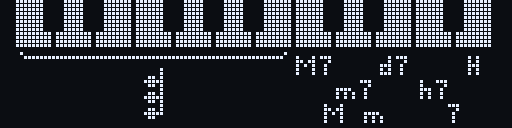
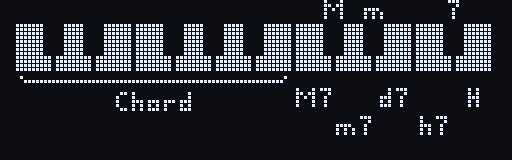
Polish the pedal diagrams
Note names under the white keys in normal mode, Oct +1 / Oct -1 by the
octave buttons, Chord in text and a sliders icon for config mode. Chord
type labels are centred on their keys: over the black ones, and under the
white ones on alternating rows since they are as wide as the keys.

Claude-Session: https://claude.ai/code/session_014PS28BVHbviu2zxhTE1guH

Changed region(s): [[0.0312, 0.0, 0.9688, 0.9688], [0.625, 0.6875, 0.75, 0.9688]]

diff --git a/tools/preview/preview.c b/tools/preview/preview.c
@@ -254,43 +254,63 @@ static void frames_png(const char *path, uint8_t *const *bufs, int n,
 // Pedal diagrams for the docs, drawn like the display
 
 #define KB_X ((128 - WIDGET_KEYS_WIDTH) / 2)
+#define DIAGRAM_KB_H 12
 
-static void tiny_under(gfx_t *g, int key, int y, const char *label) {
-    int x = widget_key_x(KB_X, key) + widget_key_width(key) / 2;
-    widget_tiny_text(g, x - widget_tiny_width(label) / 2, y, label);
+static bool is_white(int key) {
+    return widget_key_width(key) != widget_key_width(1);
+}
+
+// Label centred under a white key (row 0 or 1) or over a black one
+static void key_label(gfx_t *g, int kb_y, int key, const char *label, int row) {
+    int x = widget_key_x(KB_X, key) + (widget_key_width(key) - widget_tiny_width(label)) / 2;
+    int y = is_white(key) ? kb_y + DIAGRAM_KB_H + 4 + row * 7 : kb_y - 6;
+    widget_tiny_text(g, x, y, label, true);
+}
+
+// Sprite with its left edge at x, centred vertically on y
+static void blit_centred(gfx_t *g, const sprite_t *s, int x, int y) {
+    gfx_blit(g, s, x, y - s->height / 2);
 }
 
 static void diagram_normal(gfx_t *g) {
+    static const char *const NOTES[12] = { "C", "D", "E", "F", "G", "A", "B", "C", "D", "E", "F", "G" };
     gfx_clear(g);
-    widget_keyboard(g, KB_X, 0, 12, 0, 0);
+    widget_keyboard(g, KB_X, 0, DIAGRAM_KB_H, 0, 0);
+    for (int key = 0, n = 0; key < 20; key++) {
+        if (is_white(key)) {
+            key_label(g, 0, key, NOTES[n++], 0);
+        }
+    }
     // One button: one octave up or down
-    gfx_blit(g, &SPRITE_BUTTON_UP, 8, 17);
-    widget_tiny_text(g, 22, 20, "+1");
-    gfx_blit(g, &SPRITE_BUTTON_DOWN, 40, 17);
-    widget_tiny_text(g, 54, 20, "-1");
+    blit_centred(g, &SPRITE_BUTTON_UP, 12, 28);
+    widget_tiny_text(g, 26, 26, "Oct +1", true);
+    blit_centred(g, &SPRITE_BUTTON_DOWN, 68, 28);
+    widget_tiny_text(g, 82, 26, "Oct -1", true);
     // Both: chord mode briefly, config mode after a second
-    gfx_blit(g, &SPRITE_BUTTON_UP, 8, 33);
-    gfx_blit(g, &SPRITE_BUTTON_DOWN, 21, 33);
-    gfx_blit(g, &SPRITE_CHORD, 36, 32);
-    gfx_blit(g, &SPRITE_BUTTON_UP, 64, 33);
-    gfx_blit(g, &SPRITE_BUTTON_DOWN, 77, 33);
-    widget_tiny_text(g, 91, 36, "1s");
-    gfx_blit(g, &SPRITE_GEAR, 101, 33);
+    blit_centred(g, &SPRITE_BUTTON_UP, 12, 41);
+    blit_centred(g, &SPRITE_BUTTON_DOWN, 25, 41);
+    widget_tiny_text(g, 40, 39, "Chord", true);
+    blit_centred(g, &SPRITE_BUTTON_UP, 68, 41);
+    blit_centred(g, &SPRITE_BUTTON_DOWN, 81, 41);
+    widget_tiny_text(g, 96, 39, "1s", true);
+    blit_centred(g, &SPRITE_SETTINGS, 106, 41);
 }
 
 static void diagram_chord(gfx_t *g) {
     static const char *const LABELS[8] = { "M7", "M", "m7", "m", "d7", "h7", "7", "H" };
+    int kb_y = 6;
     gfx_clear(g);
-    widget_keyboard(g, KB_X, 0, 12, 0, 0);
-    // Roots: one arc over all of them
-    widget_arc(g, KB_X, 13, 0, 11);
-    int left = widget_key_x(KB_X, 0), right = widget_key_x(KB_X, 11) + widget_key_width(11);
-    gfx_blit(g, &SPRITE_CHORD, (left + right - SPRITE_CHORD.width) / 2, 17);
-    // Chord types and hold, staggered over three rows so neighbours don't touch
-    static const uint8_t ROW[8] = { 14, 26, 20, 26, 14, 20, 26, 14 };
-    for (int key = 12; key < 20; key++) {
-        tiny_under(g, key, ROW[key - 12], LABELS[key - 12]);
+    widget_keyboard(g, KB_X, kb_y, DIAGRAM_KB_H, 0, 0);
+    // Chord types and hold on the upper eight keys; labels under neighbouring
+    // white keys alternate rows, as they are as wide as the keys
+    for (int key = 12, white = 0; key < 20; key++) {
+        key_label(g, kb_y, key, LABELS[key - 12], is_white(key) ? white++ & 1 : 0);
     }
+    // Roots: one arc under all of them
+    int y = kb_y + DIAGRAM_KB_H + 1;
+    widget_arc(g, KB_X, y, 0, 11);
+    int left = widget_key_x(KB_X, 0), right = widget_key_x(KB_X, 11) + widget_key_width(11);
+    widget_tiny_text(g, (left + right - widget_tiny_width("Chord")) / 2, y + 4, "Chord", true);
 }
 
 static void write_diagrams(const char *dir) {
@@ -303,11 +323,12 @@ static void write_diagrams(const char *dir) {
     snprintf(path, sizeof(path), "%s/keys-normal.png", dir);
     frames_png(path, buf, 1, g.width, g.height);
 
-    gfx_init(&g, 128, 32);
+    gfx_init(&g, 128, 40);
     diagram_chord(&g);
     snprintf(path, sizeof(path), "%s/keys-chord.png", dir);
     frames_png(path, buf, 1, g.width, g.height);
 
+    gfx_init(&g, 128, 32);
     ui_state_t st;
     memset(&st, 0, sizeof(st));
     st.root = -1;

diff --git a/src/widgets.c b/src/widgets.c
@@ -103,12 +103,17 @@ static const struct {
     { '3', 3, { 21, 21, 31 } }, { '4', 3, { 7, 4, 31 } },   { '5', 3, { 23, 21, 29 } },
     { '6', 3, { 31, 21, 29 } }, { '7', 3, { 1, 29, 3 } },   { '8', 3, { 31, 21, 31 } },
     { '9', 3, { 23, 21, 31 } }, { 'H', 3, { 31, 4, 31 } },  { 'd', 3, { 28, 20, 31 } },
-    { 'h', 3, { 31, 4, 28 } },  { 's', 3, { 20, 18, 10 } }, { '+', 3, { 4, 14, 4 } },
+    { 'h', 3, { 31, 4, 28 } },  { 's', 3, { 18, 21, 9 } },  { '+', 3, { 4, 14, 4 } },
+    { 'A', 3, { 30, 5, 30 } },  { 'B', 3, { 31, 21, 10 } }, { 'C', 3, { 14, 17, 17 } },
+    { 'D', 3, { 31, 17, 14 } }, { 'E', 3, { 31, 21, 17 } }, { 'F', 3, { 31, 5, 1 } },
+    { 'G', 3, { 14, 17, 29 } }, { 'O', 3, { 14, 17, 14 } }, { 'c', 3, { 28, 20, 20 } },
+    { 'o', 3, { 28, 20, 28 } }, { 'r', 3, { 28, 4, 4 } },   { 't', 3, { 2, 15, 18 } },
+    { ' ', 1, { 0 } },
     { '-', 3, { 4, 4, 4 } },    { 'M', 5, { 31, 2, 4, 2, 31 } },
     { 'm', 5, { 28, 4, 28, 4, 24 } },
 };
 
-void widget_tiny_text(gfx_t *g, int x, int y, const char *str) {
+void widget_tiny_text(gfx_t *g, int x, int y, const char *str, bool on) {
     for (; *str; str++) {
         for (unsigned i = 0; i < sizeof(TINY) / sizeof(TINY[0]); i++) {
             if (TINY[i].c != *str) {
@@ -117,7 +122,7 @@ void widget_tiny_text(gfx_t *g, int x, int y, const char *str) {
             for (int col = 0; col < TINY[i].width; col++) {
                 for (int bit = 0; bit < 5; bit++) {
                     if (TINY[i].cols[col] >> bit & 1) {
-                        gfx_fill(g, x + col, y + bit, 1, 1, true);
+                        gfx_fill(g, x + col, y + bit, 1, 1, on);
                     }
                 }
             }

diff --git a/src/diagram_sprites.h b/src/diagram_sprites.h
@@ -10,8 +10,5 @@ static const sprite_t SPRITE_BUTTON_DOWN = { 11, 10, SPRITE_BUTTON_DOWN_COLS };
 static const uint32_t SPRITE_BUTTON_UP_COLS[11] = { 0x000003ff, 0x00000201, 0x00000221, 0x00000231, 0x00000239, 0x000002fd, 0x00000239, 0x00000231, 0x00000221, 0x00000201, 0x000003ff };
 static const sprite_t SPRITE_BUTTON_UP = { 11, 10, SPRITE_BUTTON_UP_COLS };
 
-static const uint32_t SPRITE_CHORD_COLS[5] = { 0x00000888, 0x00001ddc, 0x00001ddc, 0x00000888, 0x00000fff };
-static const sprite_t SPRITE_CHORD = { 5, 13, SPRITE_CHORD_COLS };
-
-static const uint32_t SPRITE_GEAR_COLS[10] = { 0x00000030, 0x0000017a, 0x000000fc, 0x000001fe, 0x00000387, 0x00000387, 0x000001fe, 0x000000fc, 0x0000017a, 0x00000030 };
-static const sprite_t SPRITE_GEAR = { 10, 10, SPRITE_GEAR_COLS };
+static const uint32_t SPRITE_SETTINGS_COLS[11] = { 0x00000222, 0x00000222, 0x00000227, 0x00000227, 0x00000727, 0x00000722, 0x00000772, 0x00000272, 0x00000272, 0x00000222, 0x00000222 };
+static const sprite_t SPRITE_SETTINGS = { 11, 11, SPRITE_SETTINGS_COLS };

diff --git a/src/widgets.h b/src/widgets.h
@@ -20,8 +20,9 @@ int widget_key_width(int key);
 // "\___/" pointer under keys a..b (inclusive) of a strip drawn at x
 void widget_arc(gfx_t *g, int x, int y, int key_a, int key_b);
 
-// 3x5 text for labels under keys; digits, M m d h H s + - only
-void widget_tiny_text(gfx_t *g, int x, int y, const char *str);
+// 3x5 text for key labels, lit or dark; digits, A-H, M O, c d h m o r s t,
+// + - and space only
+void widget_tiny_text(gfx_t *g, int x, int y, const char *str, bool on);
 int widget_tiny_width(const char *str);
 
 // Screen border inverted clockwise from the top middle, progress/255 of the

diff --git a/docs/playing.md b/docs/playing.md
@@ -21,8 +21,8 @@ chord mode.
 ![Normal mode](images/keys-normal.png)
 
 - **▲ / ▼** (one octave button): one octave up or down; hold to repeat.
-- **▲ + ▼ briefly** (the note stack): chord mode on or off.
-- **▲ + ▼ for a second** (the gear): config mode.
+- **▲ + ▼ briefly** (`Chord`): chord mode on or off.
+- **▲ + ▼ for a second** (the sliders): config mode.
 
 ## Chord mode
 
